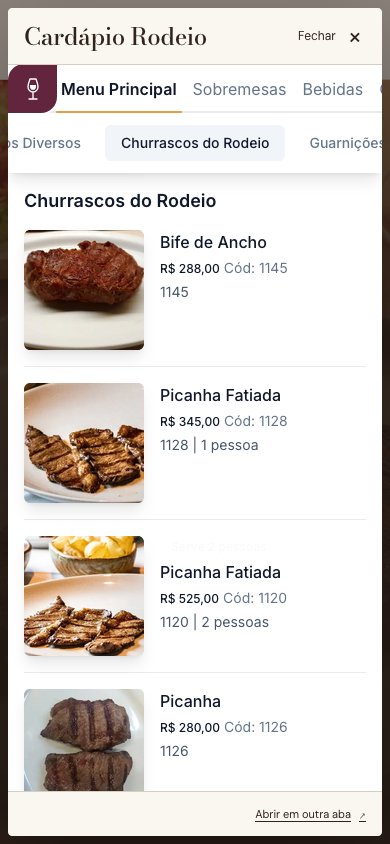
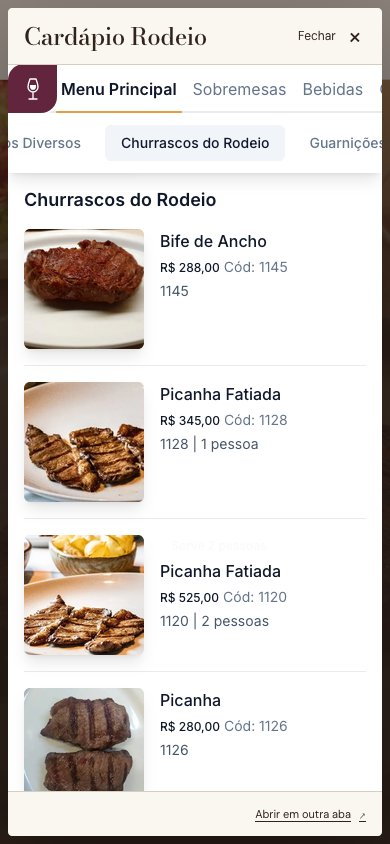
fix(rodeio): restore page scroll after menu viewport changes

diff --git a/jumper - construtor-de-sites/_jumper-sites-system/clientes/rodeio-restaurante/src/scripts/menu-dialog.ts b/jumper - construtor-de-sites/_jumper-sites-system/clientes/rodeio-restaurante/src/scripts/menu-dialog.ts
@@ -6,6 +6,7 @@ const status=dialog?.querySelector<HTMLElement>('[data-menu-status]');
 const menuUrl=dialog?.dataset.menuUrl;
 let opener:HTMLAnchorElement|null=null;
 let frame:HTMLIFrameElement|null=null;
+let pageScroll={x:0,y:0};
 let loadingTimer:ReturnType<typeof setTimeout>|undefined;
 function clearLoadingTimer(){if(loadingTimer!==undefined){clearTimeout(loadingTimer);loadingTimer=undefined;}}
 if(dialog&&closeButton&&slot&&status&&menuUrl&&typeof dialog.showModal==='function'){
@@ -19,6 +20,7 @@ if(dialog&&closeButton&&slot&&status&&menuUrl&&typeof dialog.showModal==='functi
    if(event.defaultPrevented||event.button!==0||event.metaKey||event.ctrlKey||event.shiftKey||event.altKey)return;
    event.preventDefault();opener=link;
    if(dialog.open)return;
+   pageScroll={x:window.scrollX,y:window.scrollY};
    showStatus('Carregando o cardápio…');dialog.showModal();closeButton.focus();
    const incoming=document.createElement('iframe');frame=incoming;frame.title='Cardápio digital do Rodeio';frame.referrerPolicy='strict-origin-when-cross-origin';
    frame.addEventListener('load',()=>{if(frame!==incoming||!dialog.open)return;clearLoadingTimer();status.hidden=true;},{once:true});
@@ -33,7 +35,7 @@ if(dialog&&closeButton&&slot&&status&&menuUrl&&typeof dialog.showModal==='functi
   const rect=dialog.getBoundingClientRect();
   if(event.clientX<rect.left||event.clientX>rect.right||event.clientY<rect.top||event.clientY>rect.bottom)dialog.close();
  });
- dialog.addEventListener('close',()=>{clearLoadingTimer();frame?.remove();frame=null;status.hidden=true;opener?.focus({preventScroll:true});});
+ dialog.addEventListener('close',()=>{clearLoadingTimer();frame?.remove();frame=null;status.hidden=true;window.scrollTo({left:pageScroll.x,top:pageScroll.y,behavior:'instant'});opener?.focus({preventScroll:true});});
  // Include the frame in the tab sequence; the close control stays outside it.
  dialog.addEventListener('keydown',event=>{
   if(event.key!=='Tab')return;

diff --git a/jumper - construtor-de-sites/_jumper-sites-system/clientes/rodeio-restaurante/README.md b/jumper - construtor-de-sites/_jumper-sites-system/clientes/rodeio-restaurante/README.md
@@ -94,3 +94,5 @@ Todos os links para o LiveMenu indicado pelo cliente abrem o cardápio dentro de
 O iframe é criado somente após clique, sem requisições LiveMenu no carregamento inicial. Links continuam funcionais sem JavaScript e em cliques modificados; o diálogo mantém alternativa Abrir em outra aba. Carregamento lento recebe mensagem após 15 s. Conteúdo, preços, imagens e navegação interna continuam geridos pelo LiveMenu, sem cópia para o site. Fechar permanece acessível fora do conteúdo externo; Escape funciona quando o foco está na página Rodeio, pois eventos do iframe externo não atravessam a origem.
 
 Verificação reproduzível: `scripts/verify-menu-lightbox.mjs`. Integração real com LiveMenu em 21 cenários Chrome/Firefox/WebKit, retrato/horizontal, 320–1440 px, todos os três botões do Cardápio, duas unidades e página Em breve. Inclui categorias, dimensões, mudança de altura com modal aberto, fechamento/foco, Escape no host, clique no backdrop em desktop, remoção do iframe, ausência de requisições externas antes do clique e links sem JavaScript. Axe audita o painel do site; conteúdo externo não faz parte dessa auditoria. Viewports emulados, sem teste físico de aparelho. Astro check sem diagnósticos, build completo e 21 testes Worker/preflight aprovados. Evidências em `data/visual-review/menu-lightbox/`.
+
+A validação com alteração de altura do viewport detectou deslocamento do fundo ao fechar; o componente agora salva as coordenadas da página antes de abrir e as restaura explicitamente ao fechar, além de restaurar foco sem rolar. Os 21 cenários locais passaram com conferência da posição de rolagem, incluindo resize nos três motores.
